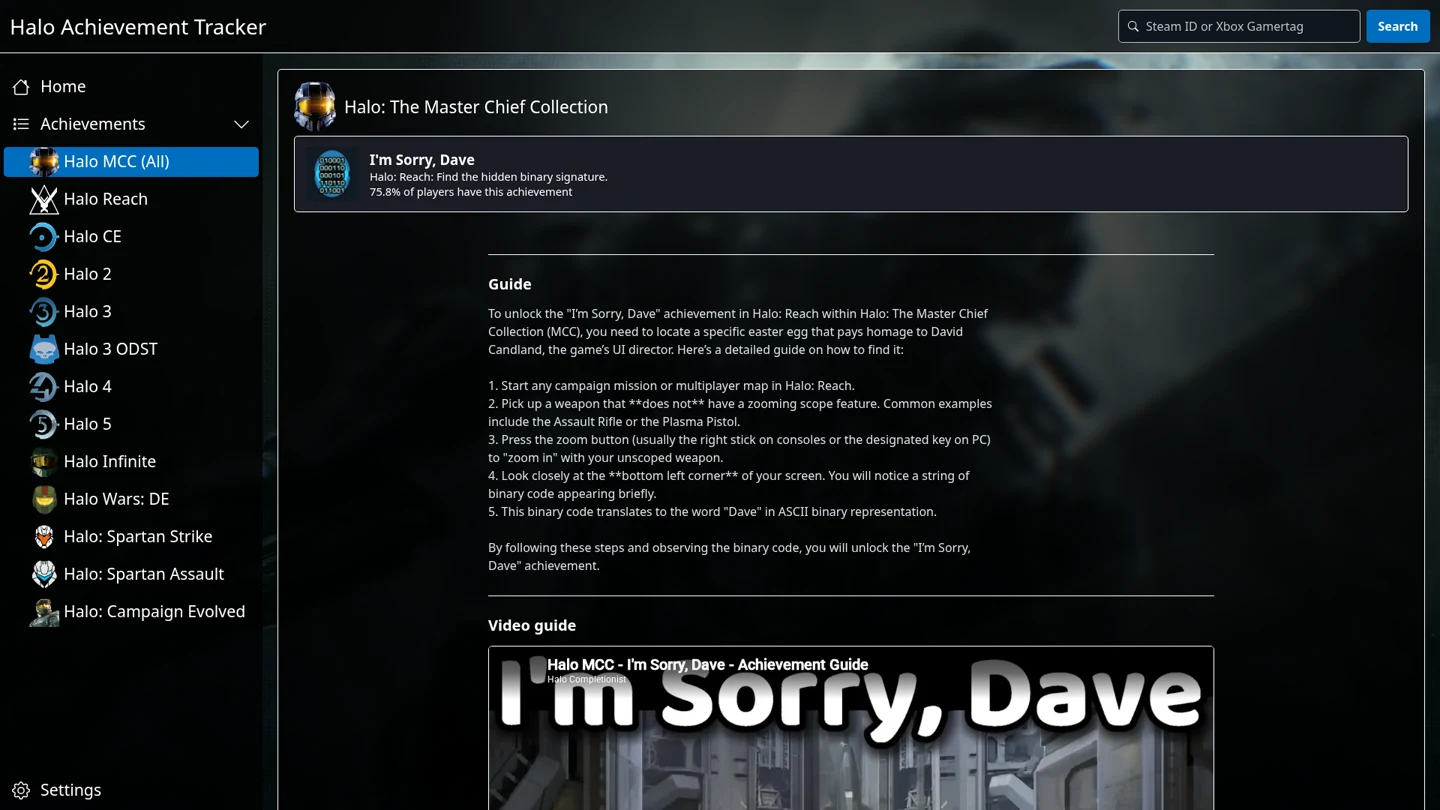
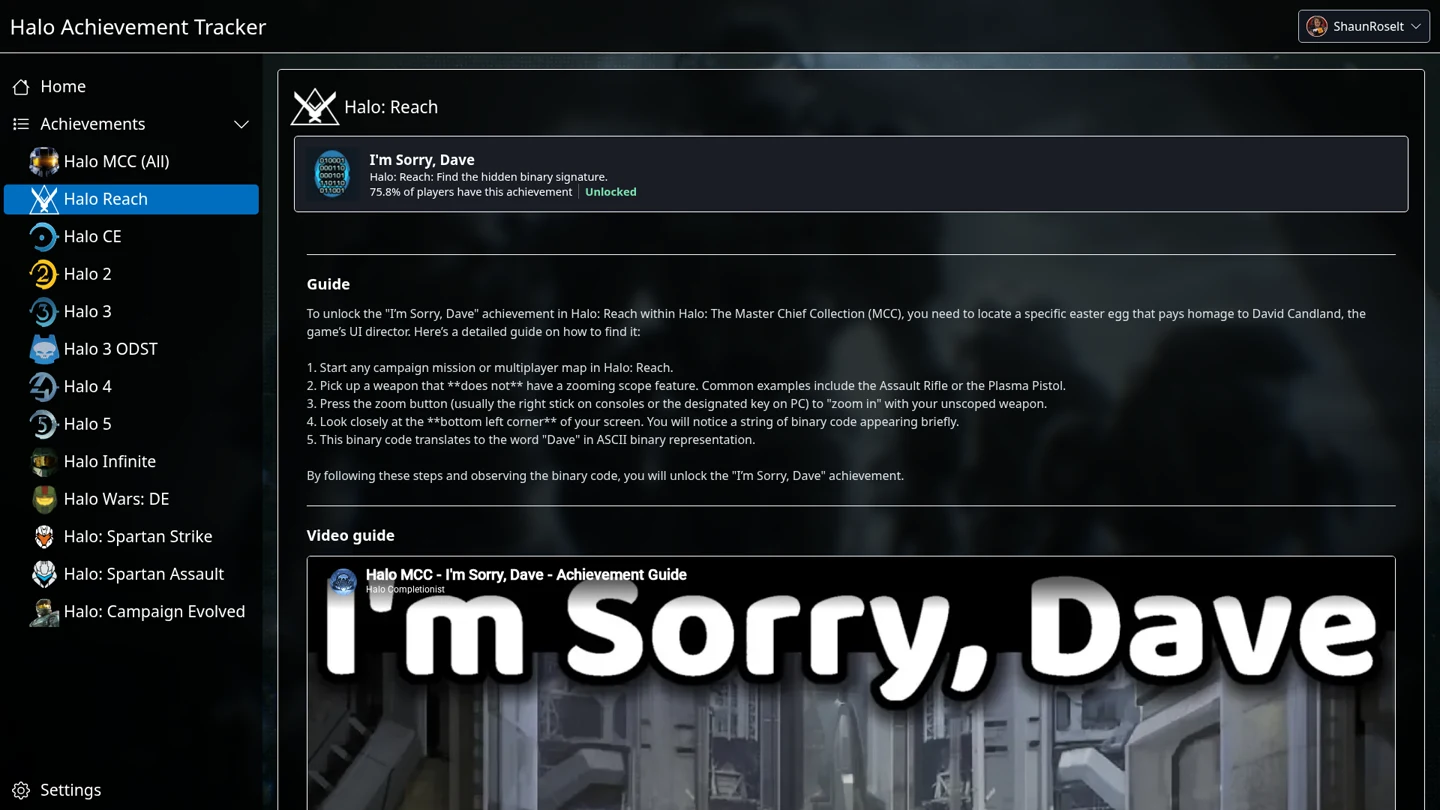
Widen achievement guides and update 1.5.0 notes

diff --git a/Website/index.html b/Website/index.html
@@ -293,10 +293,13 @@
           <div class="release-entry-body">
             <p><img src="assets/release-notes/v1-5-0-guide-full-page.webp" alt="The I'm Sorry, Dave Achievement Guide in the version 1.5.0 full-page layout" width="1440" height="810" decoding="async"></p>
             <ul>
-              <li>Changed Achievement Guides to open as full pages with the game header and matching Achievement cards</li>
+              <li>Changed Achievement Guides to open as full-width pages with matching Achievement cards and a clickable game logo and title</li>
               <li>Added unique page titles and improved search engine visibility for Achievement Guides</li>
               <li>Updated the Search Achievements, Sort By, and Unlock Status labels and shortened the Other filter label</li>
-              <li>Improved the Achievement layout on smaller screens and aligned the count, search, and guide cards</li>
+              <li>Improved the Achievement layout on smaller screens, aligned the first Achievement with the first Filter Criteria option, and widened the Sort By dropdown</li>
+              <li>Aligned the Achievement count, search, and guide cards</li>
+              <li>Added an unlocked count and progress bar when Player Search returns Achievement Progress</li>
+              <li>Added a screenshot icon to Release Notes entries that contain images</li>
               <li>Added error messages on the Player Profile page when Player Search fails</li>
             </ul>
           </div>

diff --git a/Website/styles.css b/Website/styles.css
@@ -1451,8 +1451,6 @@
   }
 
   .guide-content {
-    max-inline-size: 64rem;
-    margin-inline: auto;
     padding: clamp(0.625rem, 2vw, 1.75rem);
     overflow-wrap: anywhere;
   }
@@ -1485,7 +1483,6 @@
 
   .guide-description {
     margin: 0;
-    max-inline-size: 75ch;
     color: #dce3e7;
     white-space: pre-line;
   }
